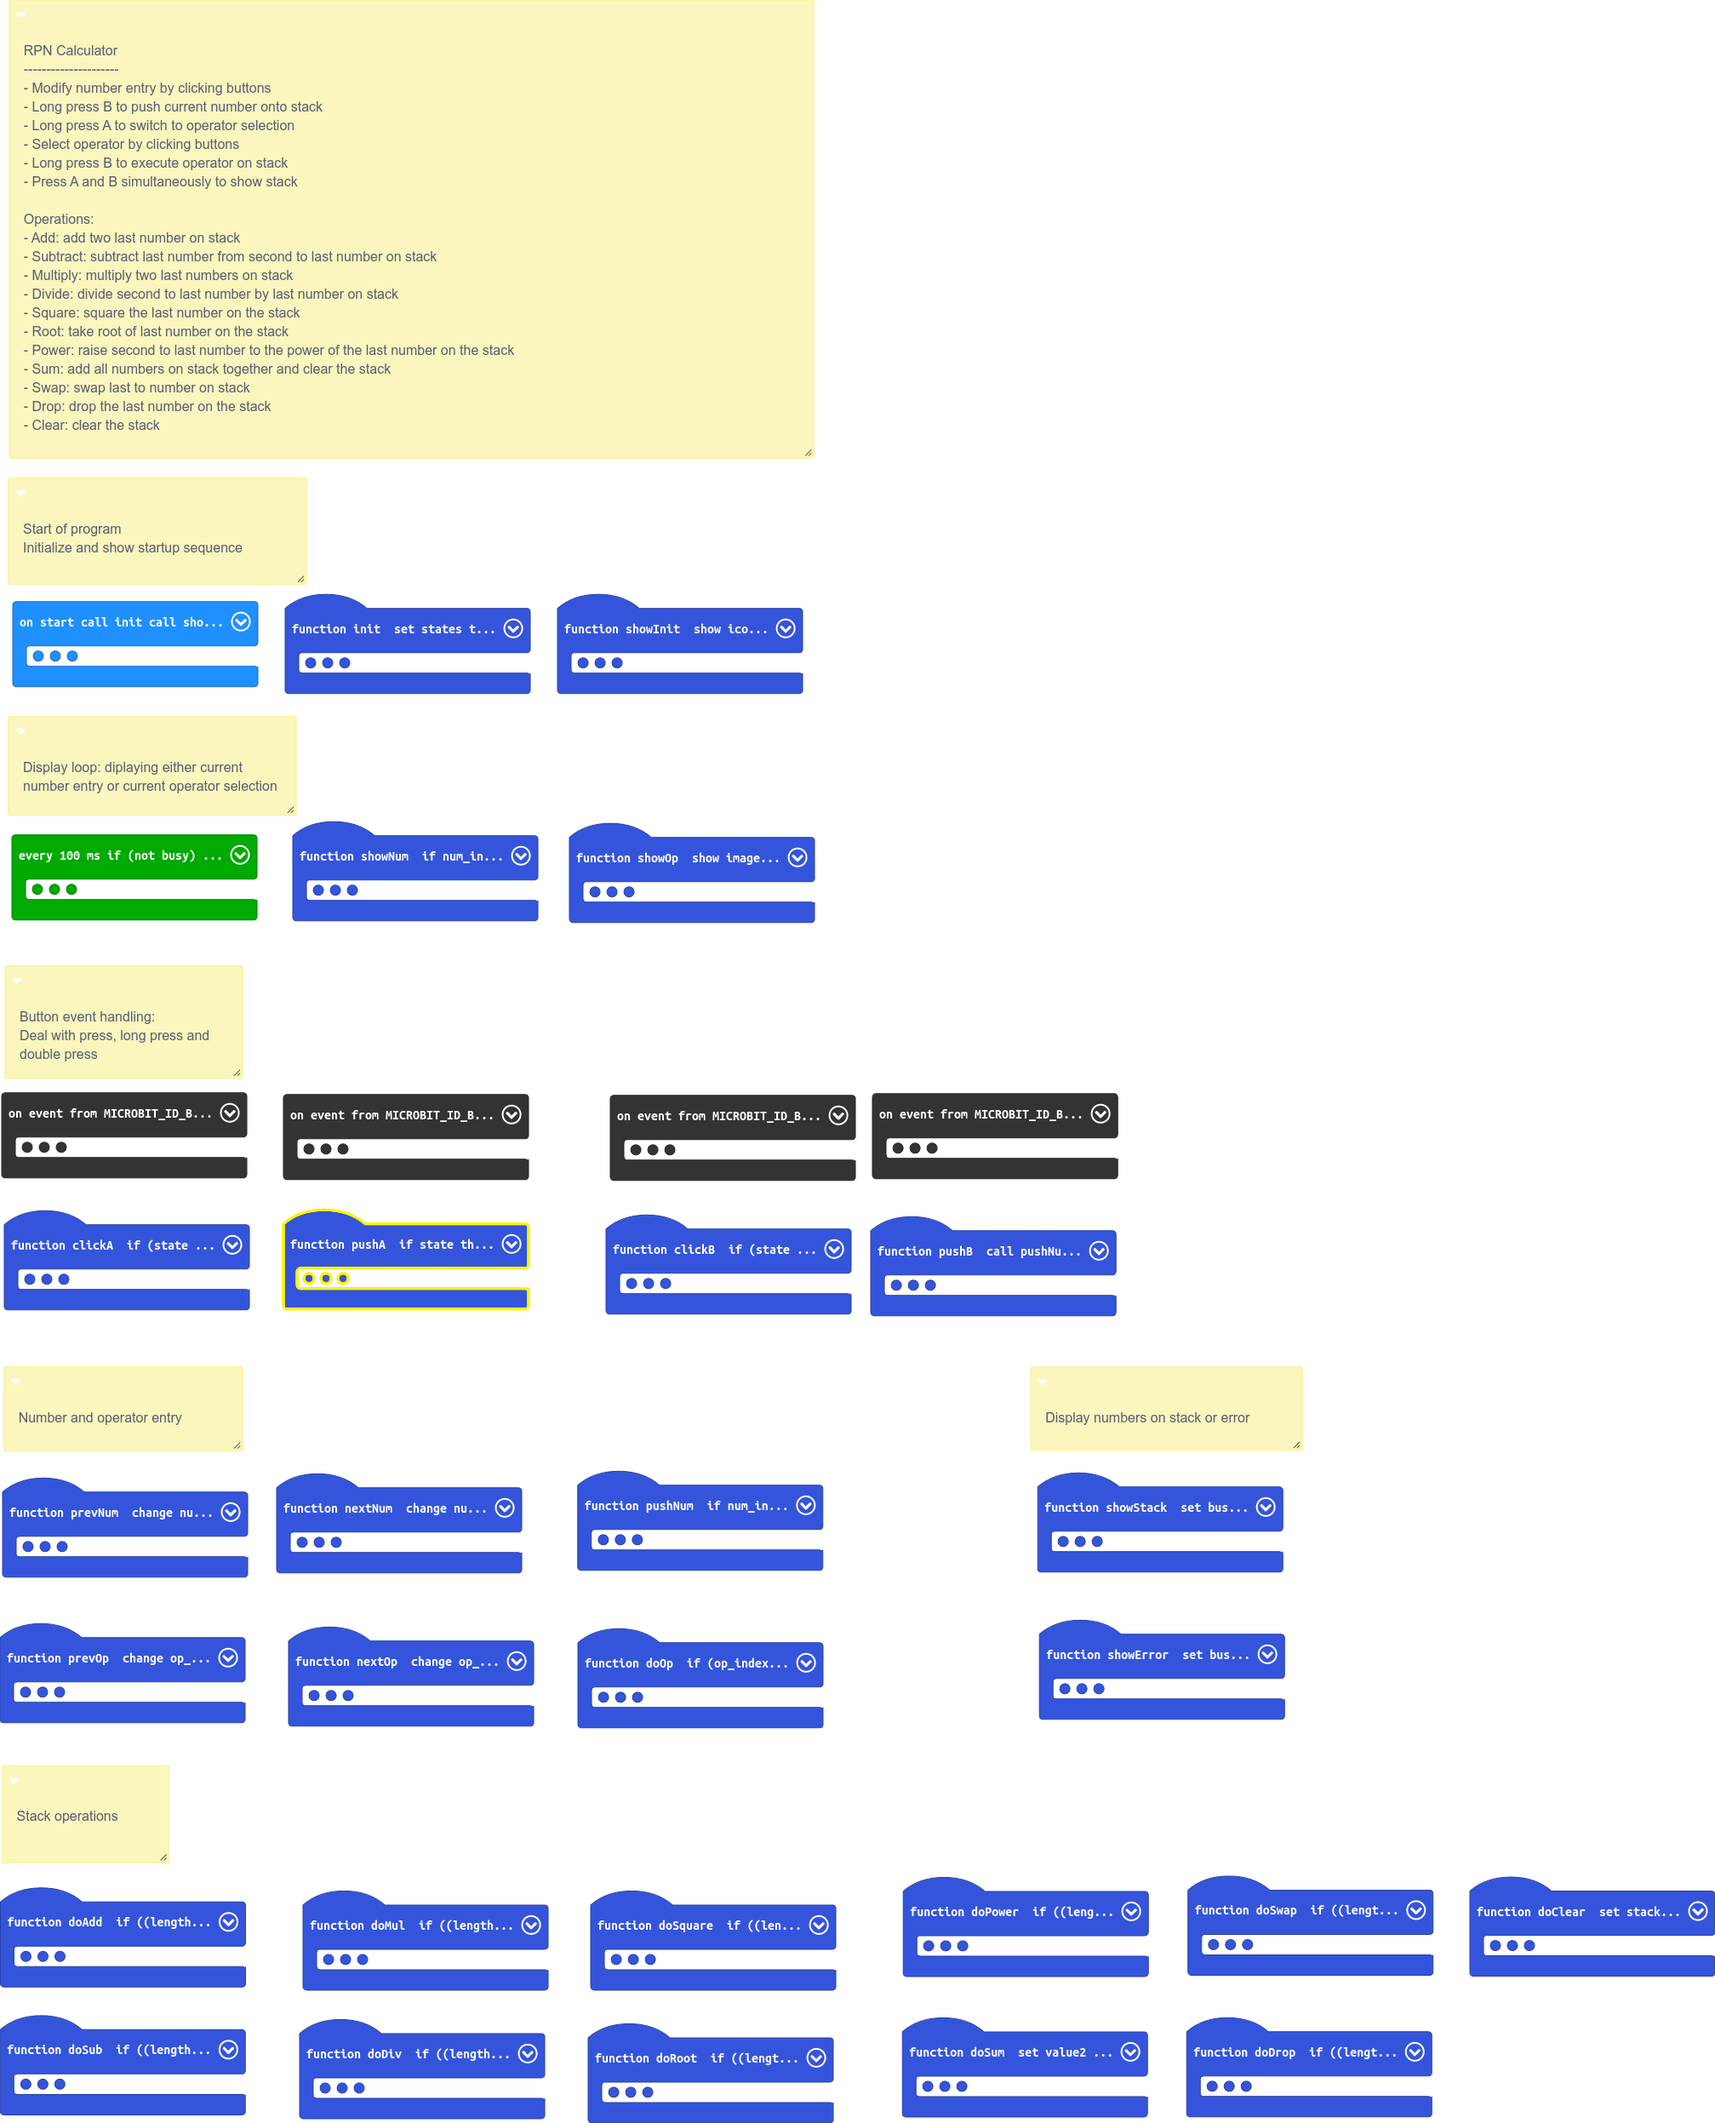
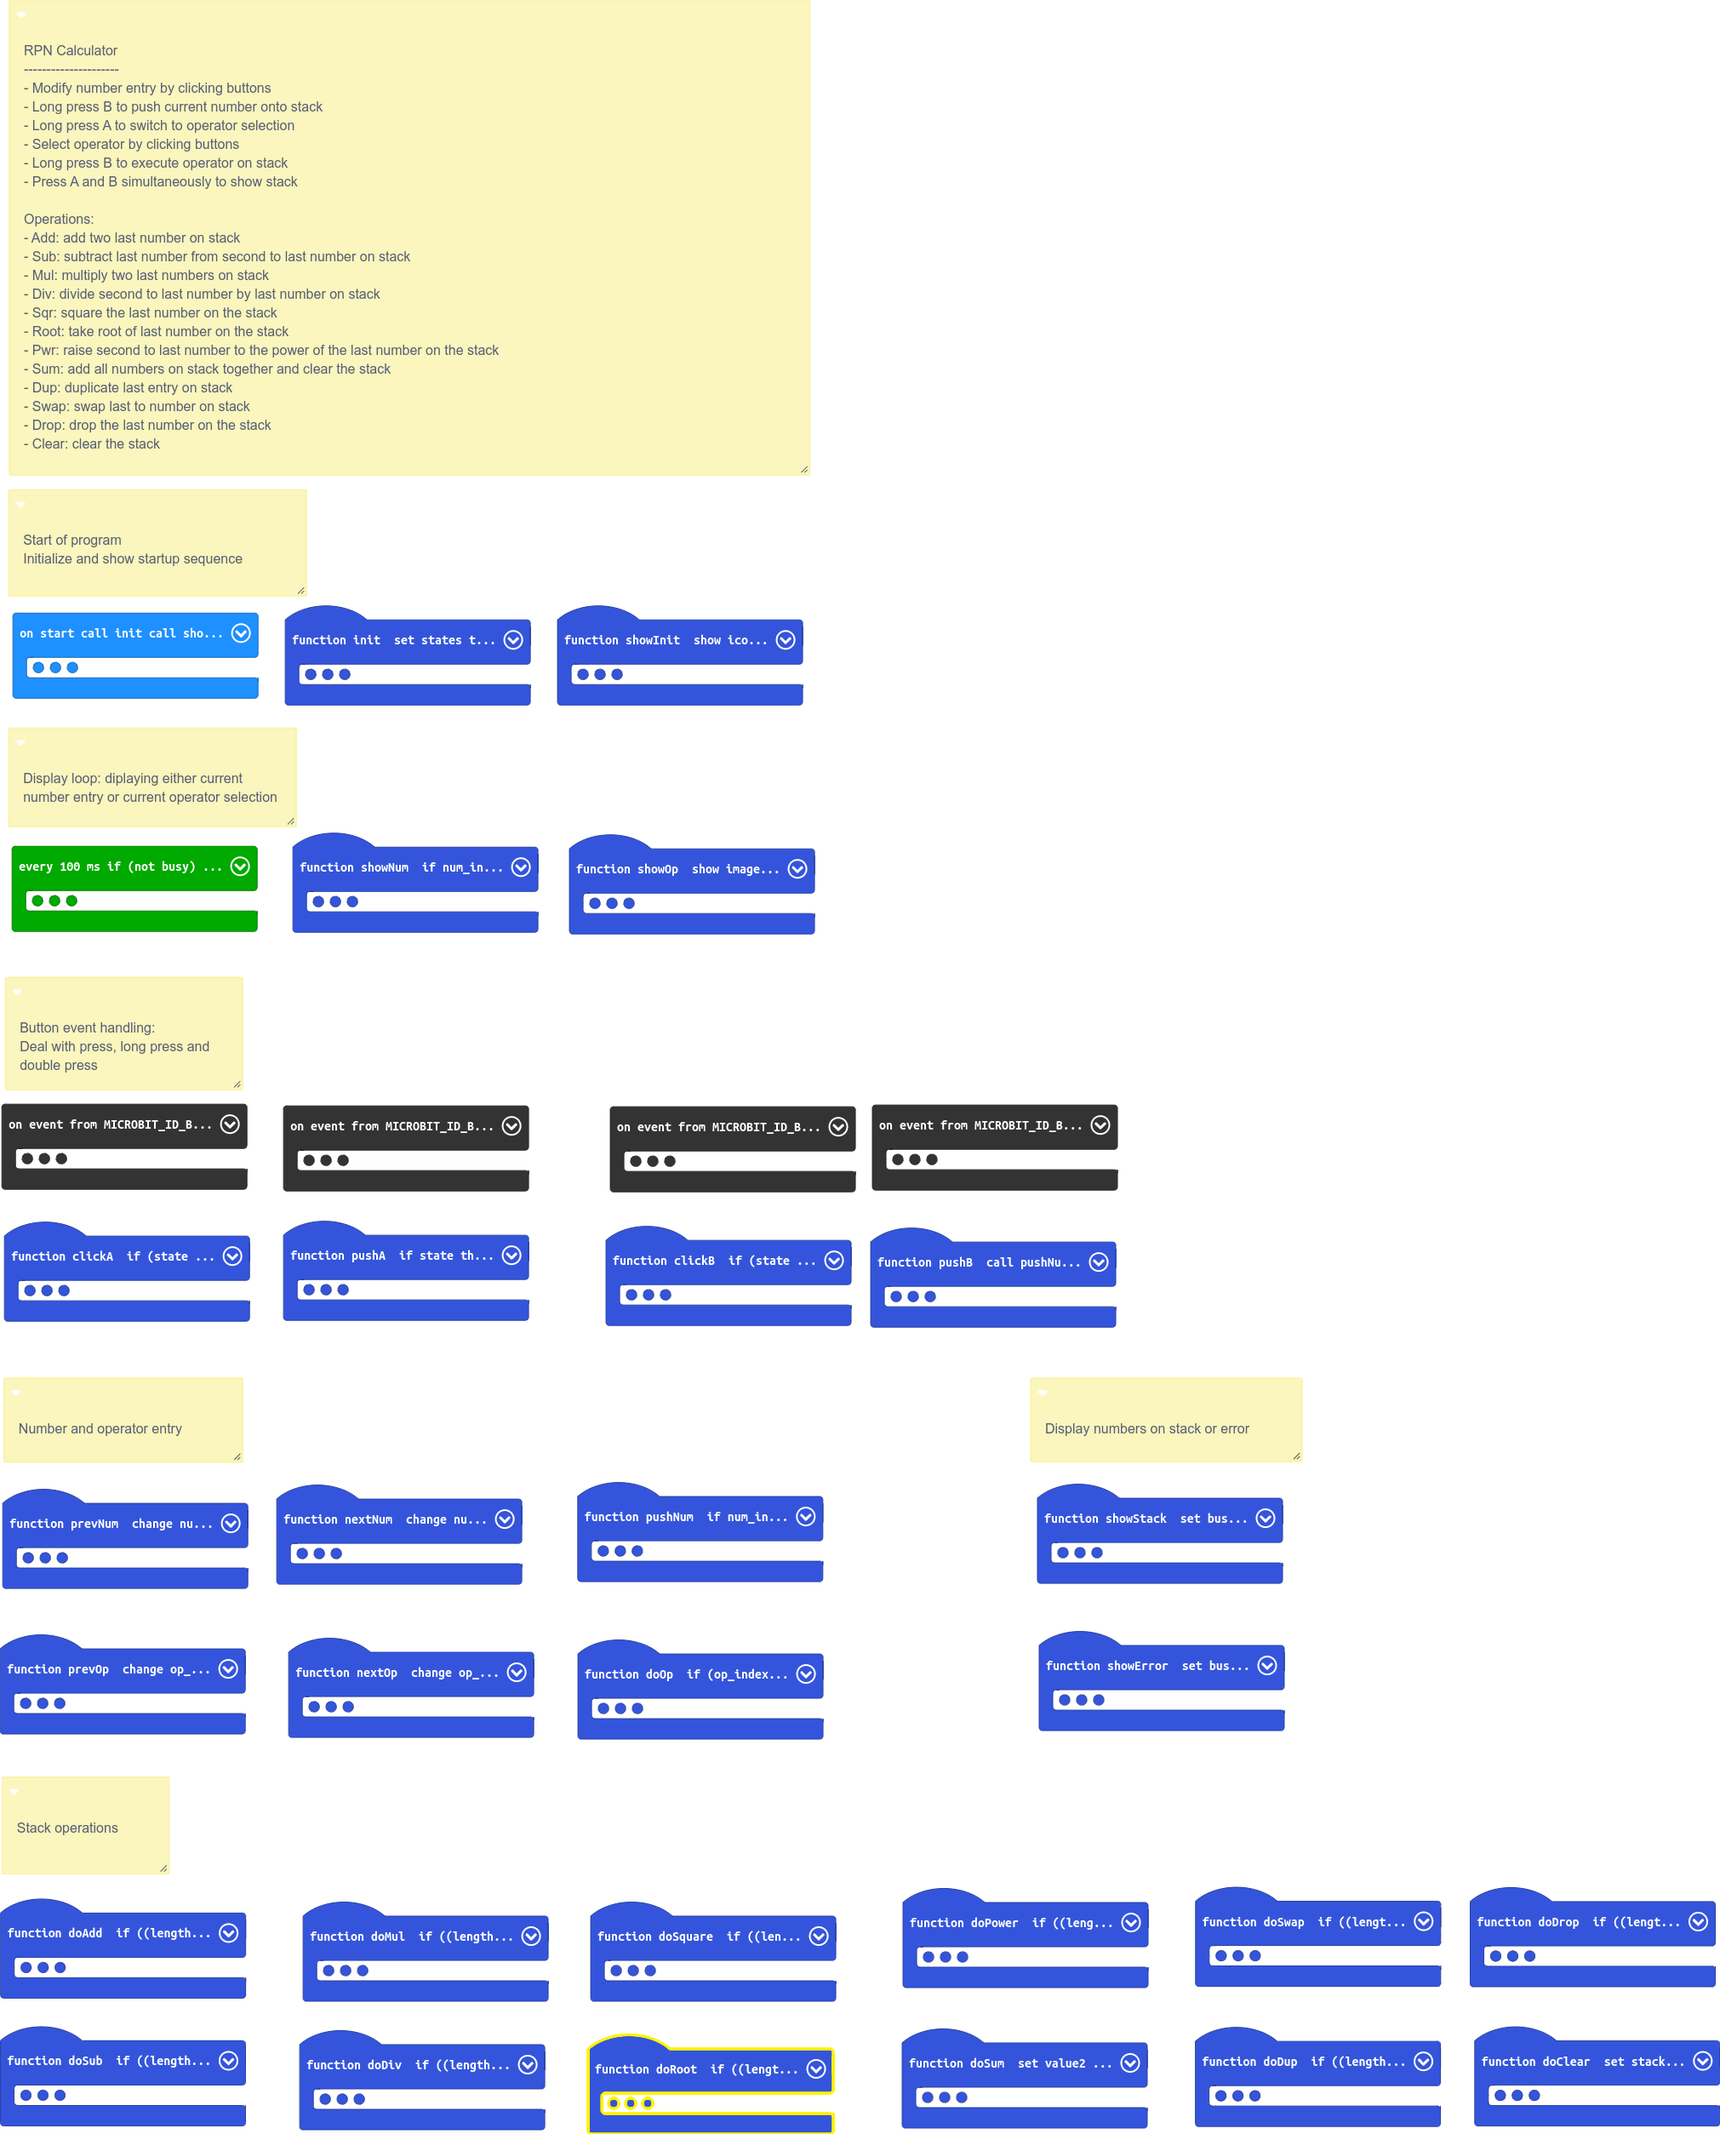
Add dup operator

diff --git a/main.ts b/main.ts
@@ -19,19 +19,21 @@
  * 
  * - Add: add two last number on stack
  * 
- * - Subtract: subtract last number from second to last number on stack
+ * - Sub: subtract last number from second to last number on stack
  * 
- * - Multiply: multiply two last numbers on stack
+ * - Mul: multiply two last numbers on stack
  * 
- * - Divide: divide second to last number by last number on stack
+ * - Div: divide second to last number by last number on stack
  * 
- * - Square: square the last number on the stack
+ * - Sqr: square the last number on the stack
  * 
  * - Root: take root of last number on the stack
  * 
- * - Power: raise second to last number to the power of the last number on the stack
+ * - Pwr: raise second to last number to the power of the last number on the stack
  * 
  * - Sum: add all numbers on stack together and clear the stack
+ * 
+ * - Dup: duplicate last entry on stack
  * 
  * - Swap: swap last to number on stack
  * 
@@ -95,8 +97,10 @@ function doOp () {
     } else if (op_index == 8) {
         doSwap()
     } else if (op_index == 9) {
-        doDrop()
+        doDup()
     } else if (op_index == 10) {
+        doDrop()
+    } else if (op_index == 11) {
         doClear()
     }
 }
@@ -263,9 +267,16 @@ function init () {
         . . # . .
         `),
     images.createImage(`
+        . . # # #
+        # # # . #
+        # . # . #
+        # . # # #
+        # # # . .
+        `),
+    images.createImage(`
         . . . . .
         . . . . .
-        . . . . .
+        # . . . #
         . # . # .
         . . # . .
         `),
@@ -342,6 +353,13 @@ function doSum () {
         value2 += stack.pop()
     }
     stack.push(value2)
+}
+function doDup () {
+    if (stack.length >= 1) {
+        stack.push(stack[stack.length - 1])
+    } else {
+        showError()
+    }
 }
 function doAdd () {
     if (stack.length >= 2) {
